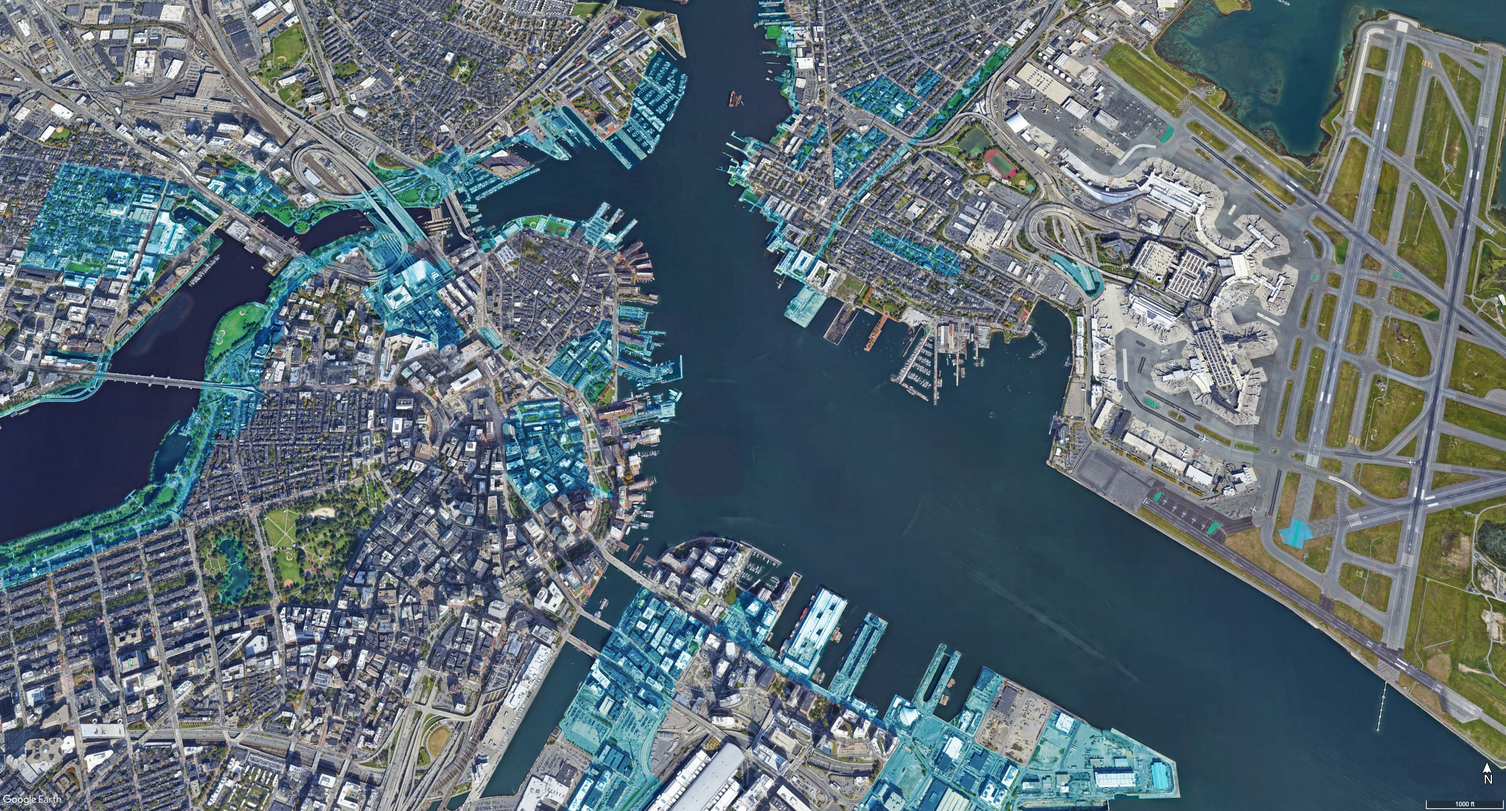
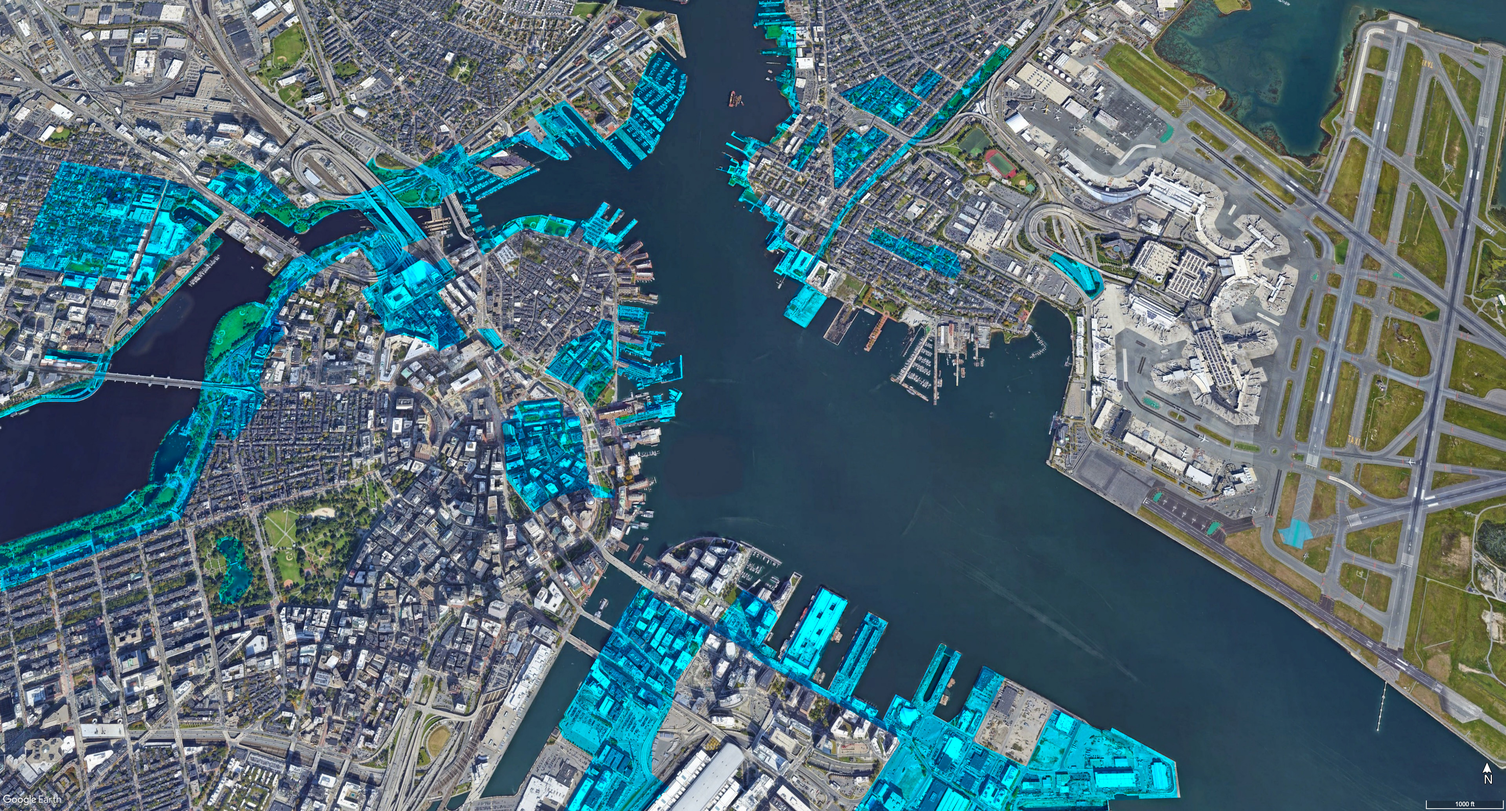
Hope

diff --git a/Project 2/sealevel.html b/Project 2/sealevel.html
@@ -60,7 +60,7 @@
             } else if (getvalue >= 17 && getvalue <= 33) {
                 imgchangevalue.setAttribute("src", "images/1foot.jpg")
             } else if (getvalue >= 34 && getvalue <= 49) {
-                imgchangevalue.setAttribute("src", "images/2feetuse.jpg")
+                imgchangevalue.setAttribute("src", "images/2feet.jpg")
             } else if (getvalue >= 50 && getvalue <= 66) {
                 imgchangevalue.setAttribute("src", "images/3feet.jpg")
             } else if (getvalue >= 67 && getvalue <= 83) {
